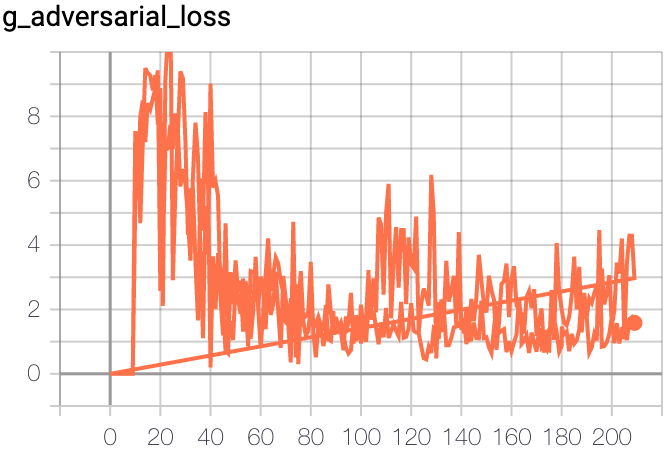
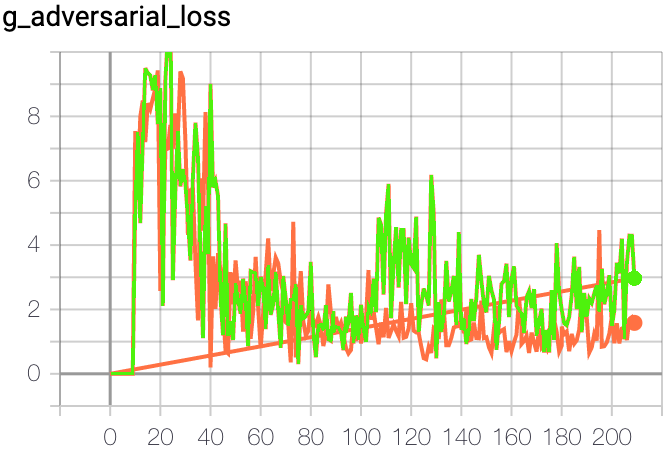
try to make round 4 plots nicer to read

Changed region(s): [[0.1791, 0.1244, 0.9552, 0.84]]

diff --git a/index.html b/index.html
@@ -431,7 +431,7 @@ As seen in the example images, the comic effect starts to kick in and the conten
 
 <h2><a name="tc5_9">Training round 4</a></h2>
 <p>Set $\omega = 0.00001 / 2 = 0.000005$</p>
-<p>Unfortunately, I did not clean up my tensorboard results folder before re-training, so the results are plotted to the existing ones from round 3.</p>
+<p>Unfortunately, I did not clean up my tensorboard results folder before re-training, so the results are plotted to the existing ones from round 3. I tried to make it a little bit more clear to see by manually image editing. The green plot is the old one from round 3, the orange plot is the actual one from round 4.</p>
 
 <table>
 <tr>
